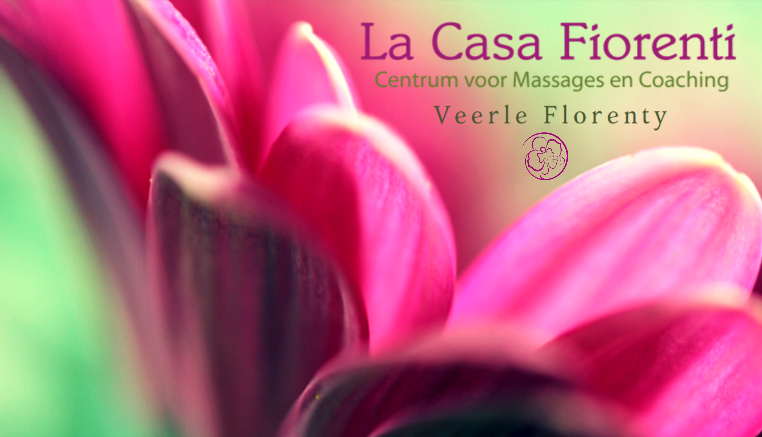
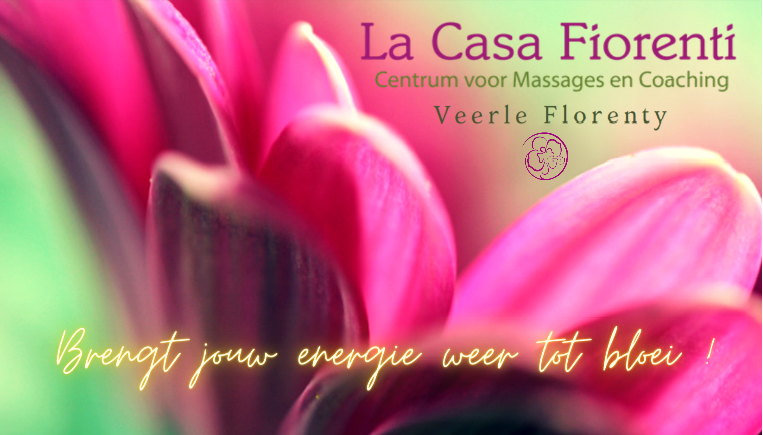
welp x2

diff --git a/Home-pagina.html b/Home-pagina.html
@@ -10,7 +10,7 @@
 
     <article>
 
-        <img class="mainimage" src="img/Foto1%20-%20kopie.png" alt="Foto1">
+        <img class="mainimage" src="img/Foto1ww.png" alt="Foto1">
 
         <section class="centertext">
             <h2>Behoefte aan ontspanning?</h2>
